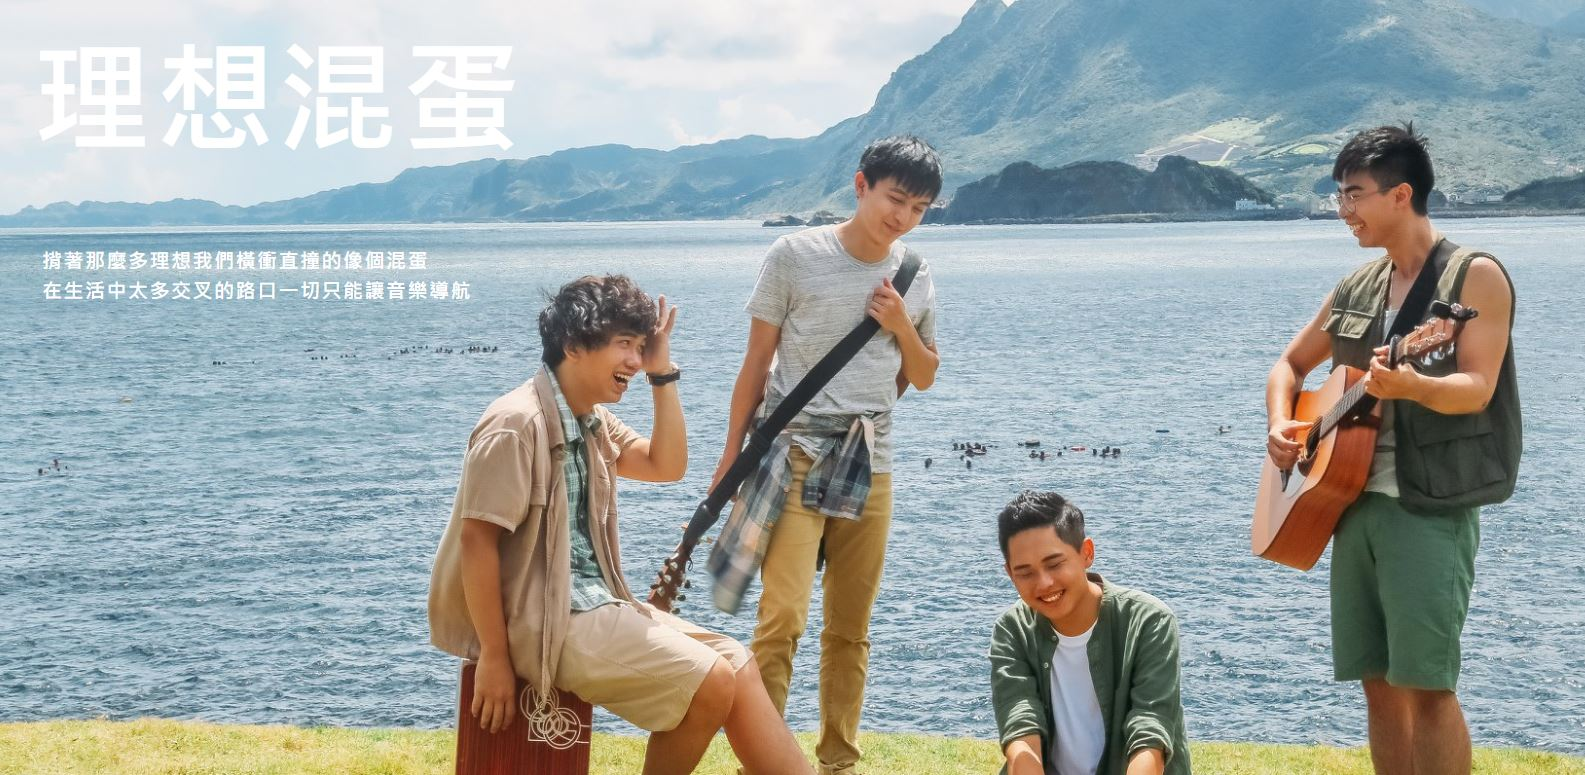
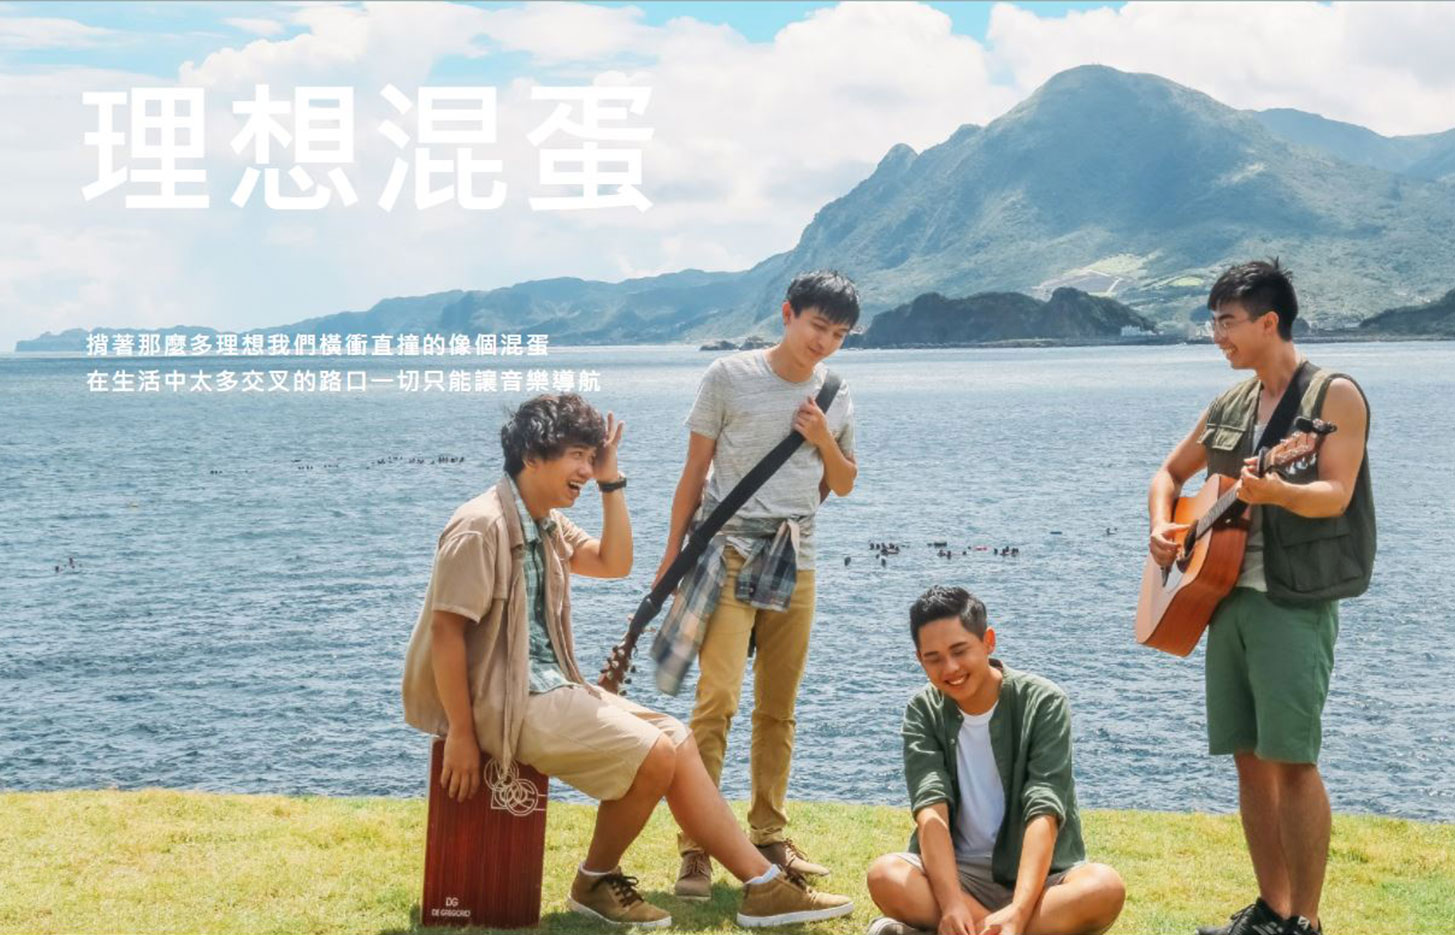
third update

diff --git a/index.html b/index.html
@@ -139,7 +139,7 @@
 					<div class="col-lg-6 pos-2 col-12 mt-5 pt-5">
 						<div class="word-con wow scale-in-ver-center">
 							<h4 class="title">簡介</h4>
-							<p class="content">模擬電商平台<br>介面設計純css手刻<br>引入Jquery第三方插件</p>
+							<p class="content">使用Sass刻畫面、管理css<br>css嘗試多種hover效果<br>引入Jquery第三方插件<br>使用Jquery搭配Js撰寫功能</p>
 						</div>
 						<div class="hint-con two">
 							<p class="hint2 wow bounce-in-fwd">view it!</p>
@@ -147,25 +147,25 @@
 					</div>
 				</div>
 			</div>
-			<div class="container mt-5">
+			<!-- <div class="container mt-5">
 				<div class="row">
-					<div class="col-lg-6 pos-1 col-12 mt-5 pt-5 order-2">
+					<div class="col-lg-6 pos-1 col-12 mt-5 pt-5">
 						<div class="word-con wow scale-in-ver-center">
 							<h4 class="title">簡介</h4>
-							<p class="content">使用Sass刻畫面、管理css<br>css嘗試多種hover效果<br>引入Jquery第三方插件<br>利用Javascript撰寫：<br>slide頁面滑動</p>
+							<p class="content">關於樂團的基本介紹<br>搭配Bootstr4製作一頁式網站<br></p>
 						</div>
 						<div class="hint-con">
 							<p class="hint wow bounce-in-fwd">view it!</p>
 						</div>
 					</div>
-					<div class="col-lg-6 col-12 js-fadeInRight order-1">
+					<div class="col-lg-6 col-12 js-fadeInRight">
 						<div class="img-con">
 							<a href="#index.html" class="image image3"></a>
 						</div>
 						<p class="hint2 hint-sm wow bounce-in-fwd">view it!</p>
 					</div>
 				</div>
-			</div>
+			</div> -->
 		</section>
 		<!-- end section web-project -->
 		<div class="bg bg-2"></div>
@@ -208,7 +208,7 @@
 					<div class="col-lg-4 col-12 js-fadeInUP-2">
 						<div class="shot-item">
 							<div class="face face1">
-								<a href="" class="image image3">
+								<a href="https://iauifya.github.io/season/" class="image image3">
 									<!-- <img class="image" src="image/web/3.JPG" alt=""> -->
 								</a>
 							</div>

diff --git a/css/all.css b/css/all.css
@@ -539,14 +539,14 @@ section#web-project .img-con .image.image1, section#project .img-con .image.imag
 }
 
 section#web-project .img-con .image.image2, section#project .img-con .image.image2 {
-  background-image: url("../image/works/web design/日沐(待改).JPG");
+  background-image: url("../image/最新.jpg");
   -webkit-box-shadow: 3px 6px 28px rgba(255, 255, 255, 0.6);
           box-shadow: 3px 6px 28px rgba(255, 255, 255, 0.6);
-  height: 65%;
+  height: 75%;
 }
 
 section#web-project .img-con .image.image3, section#project .img-con .image.image3 {
-  background-image: url("../image/works/web design/作品集.jpg");
+  background-image: url("../image/works/web design/理想混蛋.jpg");
   -webkit-box-shadow: 3px 6px 28px rgba(255, 255, 255, 0.6);
           box-shadow: 3px 6px 28px rgba(255, 255, 255, 0.6);
   height: 75%;
@@ -741,15 +741,15 @@ section#web-works .shot-item .image {
 }
 
 section#web-works .shot-item .image.image1 {
-  background-image: url("../image/web/購物清單.jpg");
+  background-image: url("../image/購物清單.jpg");
 }
 
 section#web-works .shot-item .image.image2 {
-  background-image: url("../image/web/ig小動畫.jpg");
+  background-image: url("../image/ig小動畫.jpg");
 }
 
 section#web-works .shot-item .image.image3 {
-  background-image: url("../image/web/四季.jpg");
+  background-image: url("../image/四季.jpg");
 }
 
 section#web-works .shot-item .image:hover {
@@ -813,8 +813,13 @@ section#web-works .shot-item:hover .face.face2 {
 }
 
 @media screen and (max-width: 768px) {
+  section#web-works .col-12 {
+    margin-bottom: 2.5rem;
+  }
   section#web-works .shot-item {
     margin-bottom: 30px;
+    width: 80%;
+    margin: 0 auto;
   }
   section#web-works .shot-item .face.face1 {
     -webkit-transform: translateY(0px);

diff --git a/css/all.sass b/css/all.sass
@@ -389,11 +389,11 @@ section
         background-image: url('../image/宣傳照.jpg')
         box-shadow: 3px 6px 28px rgba(255,255,255,0.6)
       .image.image2
-        background-image: url('../image/works/web design/日沐(待改).JPG')
+        background-image: url('../image/最新.jpg')
         box-shadow: 3px 6px 28px rgba(255,255,255,0.6)
-        height: 65%
+        height: 75%
       .image.image3
-        background-image: url("../image/works/web design/作品集.jpg")
+        background-image: url("../image/works/web design/理想混蛋.jpg")
         box-shadow: 3px 6px 28px rgba(255,255,255,0.6)
         height: 75%
       .image:hover
@@ -533,11 +533,11 @@ section
         background-repeat: no-repeat
         transition: all 0.3s
       .image.image1
-        background-image: url("../image/web/購物清單.jpg")
+        background-image: url("../image/購物清單.jpg")
       .image.image2
-        background-image: url("../image/web/ig小動畫.jpg")
+        background-image: url("../image/ig小動畫.jpg")
       .image.image3
-        background-image: url("../image/web/四季.jpg") 
+        background-image: url("../image/四季.jpg") 
       .image:hover
         cursor: pointer
         &:before
@@ -575,10 +575,14 @@ section
           box-shadow: none
       
     @media screen and ( max-width: 768px )
+      .col-12
+        margin-bottom: 2.5rem
       .shot-item
         // box-shadow: 0 3px 15px rgba(0,0,0,.3)
         // height: 550px
         margin-bottom: 30px
+        width: 80%
+        margin: 0 auto
         .face.face1
           transform: translateY(0px)
           // box-shadow: none
